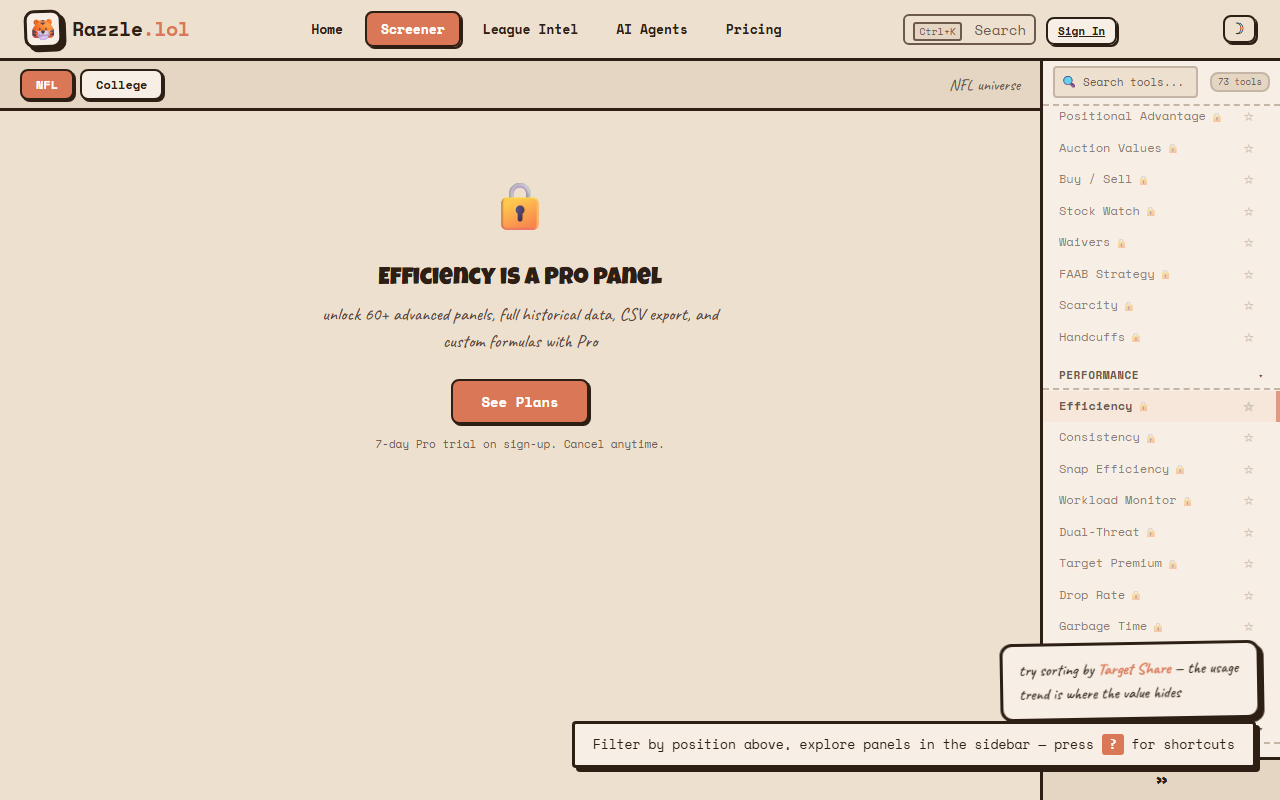
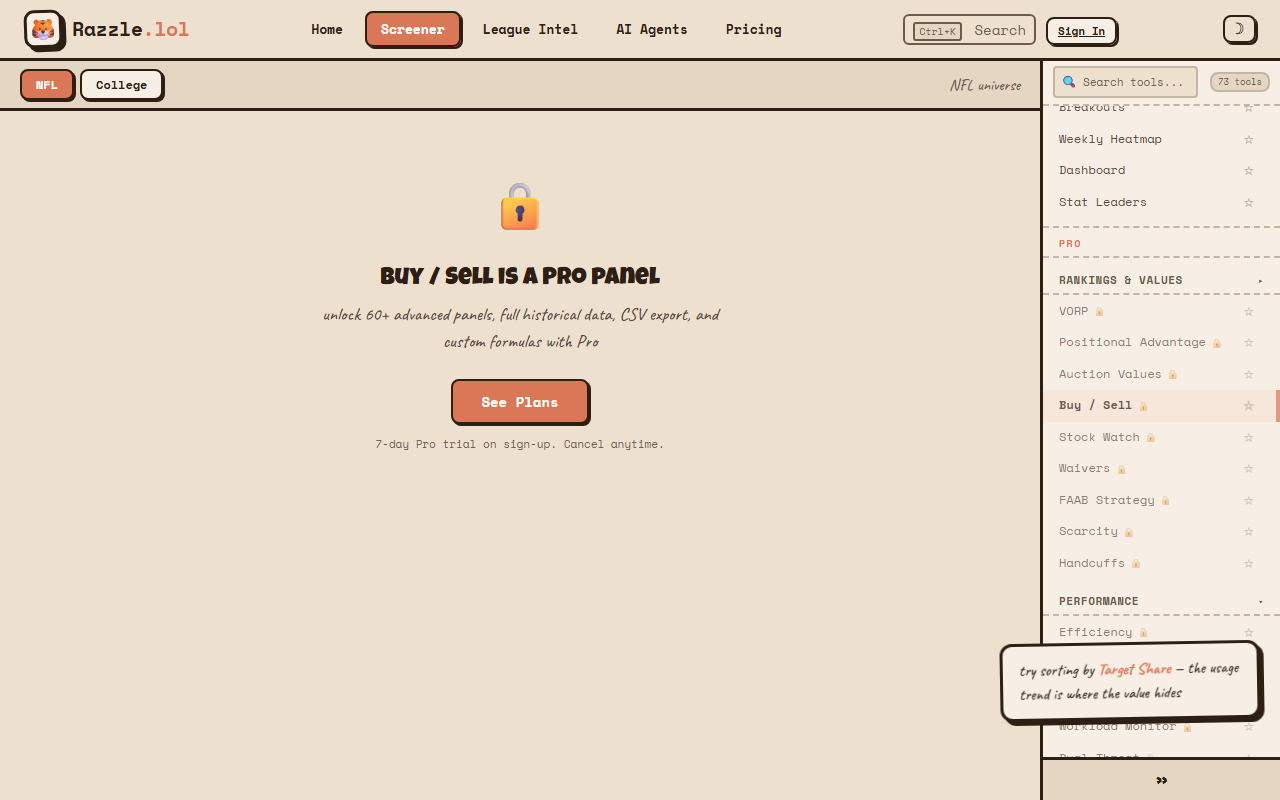
Functional QA session 72: verify Ship Loop XSS/null fixes, find FUNC-069
Re-audited flows 13, 16, 17, 18 after Ship Loop sweep:
- player.js compare search XSS rewrite (data-attributes) structurally correct
- app.js/lab-panels.js escapeHtml(String(p.age)) verified across 7 panels
- charts.js escapeAttr on player_id option values verified
- tools.py fetchone null guards + avg_ppg denominator fix verified
- server.py html.escape on exception handler verified

New finding: FUNC-069 (P1) — compare search on player profile page
returns 0 results because player.js:750 reads data.players but
/api/players returns data.items. Pre-existing since Phase 39.

diff --git a/tickets/qa/FUNC-069-compare-search-broken.md b/tickets/qa/FUNC-069-compare-search-broken.md
@@ -1,0 +1,41 @@
+# FUNC-069: Player profile compare search returns no results
+
+**Severity**: P1 — Feature exists in UI but does nothing
+**Flow**: 16 (Player comparison)
+**Found**: Session 72 (2026-03-21)
+**Status**: OPEN
+
+## Description
+
+The "Compare" button on player profile pages (`/player/{id}`) opens a search overlay, but typing a player name never shows results. The search dropdown stays empty regardless of input.
+
+## Root Cause
+
+`frontend/player.js:750` reads `data.players || []` but the `/api/players` endpoint returns `data.items`, not `data.players`.
+
+```javascript
+// player.js:750 — BROKEN
+var players = data.players || [];  // data.players is undefined → always []
+
+// FIX:
+var players = data.items || data.players || [];
+```
+
+## Reproduction
+
+1. Go to `/player/00-0033873` (Mahomes)
+2. Click "Compare" button
+3. Type "Allen" in search box
+4. Wait — no results appear
+
+API returns 12 results (`curl /api/players?search=Allen&limit=8` → `{count:12, items:[...]}`), but code looks for `data.players`.
+
+## Evidence
+
+- API response keys: `['count', 'season', 'items']` — no `players` key
+- Browser: 0 `.compare-search-item` elements after search
+- Screenshot: `functional-qa/screenshots/step-8.png`
+
+## Notes
+
+Pre-existing since Phase 39 (commit 7854e38). Not a Ship Loop regression. The Ship Loop's session 72 XSS fix (inline onclick → data attributes) is correct but doesn't help since no items ever render.

diff --git a/functional-qa/flows.md b/functional-qa/flows.md
@@ -32,17 +32,17 @@
 
 | # | Flow | What to Test | Status |
 |---|------|-------------|--------|
-| 13 | Player profile: NFL | Click a player name. Profile loads? Stats match screener row? Season selector works? | RE-AUDIT SESSION 58 — PASS. Ship Loop player.js null guards: (_profileData.player||{}).full_name in compare search, compareSearchResults null check before innerHTML clear. Both defensive — normal flow unaffected. Browser: McCaffrey profile opens from Lab click, career stats/season log/dynasty trend all render. 0 JS errors. |
+| 13 | Player profile: NFL | Click a player name. Profile loads? Stats match screener row? Season selector works? | RE-AUDIT SESSION 72 — PASS. Ship Loop app.js escapeHtml(String(p.age)) fix verified. Age is float (30.5) from API. Mahomes profile loads with stats, radar chart, career arc. 0 JS errors. |
 | 14 | Player profile: Career stats | Career numbers add up across seasons? Per-game averages calculated correctly? | RE-AUDIT SESSION 47 — FUNC-046 FIXED. Ship Loop e0c4a3c added round(..., 1) to career sum in players.py:743. McCaffrey fantasy_points_std now 1889.3 (was 1889.2999999999997). Chase fantasy_points_ppr now 1526.3 (was 1526.3000000000002). Allen 2825.9 clean. 0 IEEE 754 artifacts in 3 tested profiles. |
 | 15 | Player profile: Game log | Individual game stats shown? Sum of game log = season total? Week numbers correct? | DONE — SESSION 12 VERIFIED. FUNC-012 DEPLOYED. Prod: Lamar 2024 game log=17 weeks (1-18 only), 17 GP. |
-| 16 | Player comparison | Compare 2 players. Stats aligned? Same season? Difference calculations correct? | RE-AUDIT SESSION 51 — FUNC-053 FIXED. Ship Loop 35e3a3a changed data-panel="compare" → "career-compare" + added to FREE_PANELS. Browser verified: panel loads with 3 player slots, autocomplete works. Standalone /compare/{id1}/{id2} also works (session 39). |
-| 17 | Player charts | Radar/scatter/trend for a player. Data matches profile? Axes labeled correctly? | RE-AUDIT SESSION 26 — PASS. Session 25 radar chart fix verified: min/max range normalization supports negative EPA (charts.js:173-182, 230-231). Normalize: (raw - min) / (max - min), clamped [0,1]. Charts position-colored, theme-aware, DPI-scaled. |
+| 16 | Player comparison | Compare 2 players. Stats aligned? Same season? Difference calculations correct? | RE-AUDIT SESSION 72 — FUNC-069 FILED. Ship Loop XSS rewrite (inline onclick → data-attributes + addEventListener) is structurally correct, but compare search on player profile page returns 0 results: player.js:750 reads data.players but API returns data.items. Standalone /compare/{id1}/{id2} works (0 errors, 11 stat rows). |
+| 17 | Player charts | Radar/scatter/trend for a player. Data matches profile? Axes labeled correctly? | RE-AUDIT SESSION 72 — PASS. Ship Loop charts.js escapeAttr fix on player_id in option value verified. Defensive only (IDs are alphanumeric). 76 option elements, 0 JS errors. |
 
 ## Group 3: Dynasty & Trade Tools (the stuff people pay for)
 
 | # | Flow | What to Test | Status |
 |---|------|-------------|--------|
-| 18 | Dynasty Rankings | Rankings load? Sortable? Position filter? Do rankings reflect age + production reality? | RE-AUDIT SESSION 19 — PASS. 0 JS errors, 23 rows, 69 sidebar items. 5 broken NFL headshot images (FUNC-004). No regressions from Ship Loop changes. |
+| 18 | Dynasty Rankings | Rankings load? Sortable? Position filter? Do rankings reflect age + production reality? | RE-AUDIT SESSION 72 — PASS. Ship Loop escapeHtml(String(p.age)) in 7 panels verified. Rankings: 200 cards, Tier 1 Elite correct. Trade Values: 150 cards. Breakouts: 50 cards. All 0 JS errors. |
 | 19 | Trade Values | Values load? Positional adjustment? Do elite young WRs > aging vets? Sensible tiers? | RE-AUDIT SESSION 67 — PASS. Ship Loop falsy-zero fix verified: games field uses `!= null` check (tradevalues.html:590). Page renders 100+ player cards, 0 JS errors. Top-30 TE compression and overvaluation remain known P2s from S55. |
 | 20 | Trade Finder | Suggest trades? Values make sense? Not suggesting obviously lopsided deals? | RE-AUDIT SESSION 67 — PASS. Ship Loop falsy-zero fix verified: games field uses `!= null` check (tradefinder.html:809). Pro-gated, code correct. Previous API verification (S60) still valid. |
 | 21 | Tiers | Tiers load? Players grouped sensibly? Tier breaks at reasonable spots? | RE-AUDIT SESSION 54 — PASS. Ship Loop null guard (tier.players || []) verified. 6 tiers, 390 player chips, 0 JS errors. P2 S-tier still bloated (84 players). |